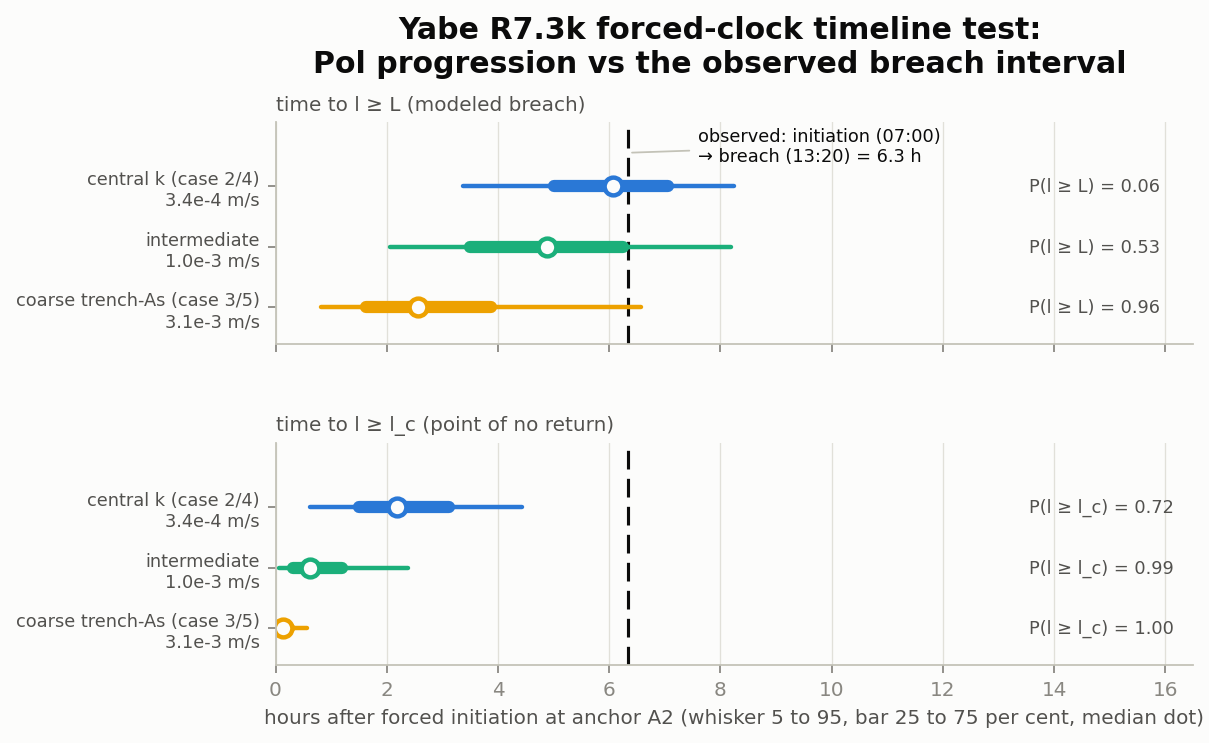
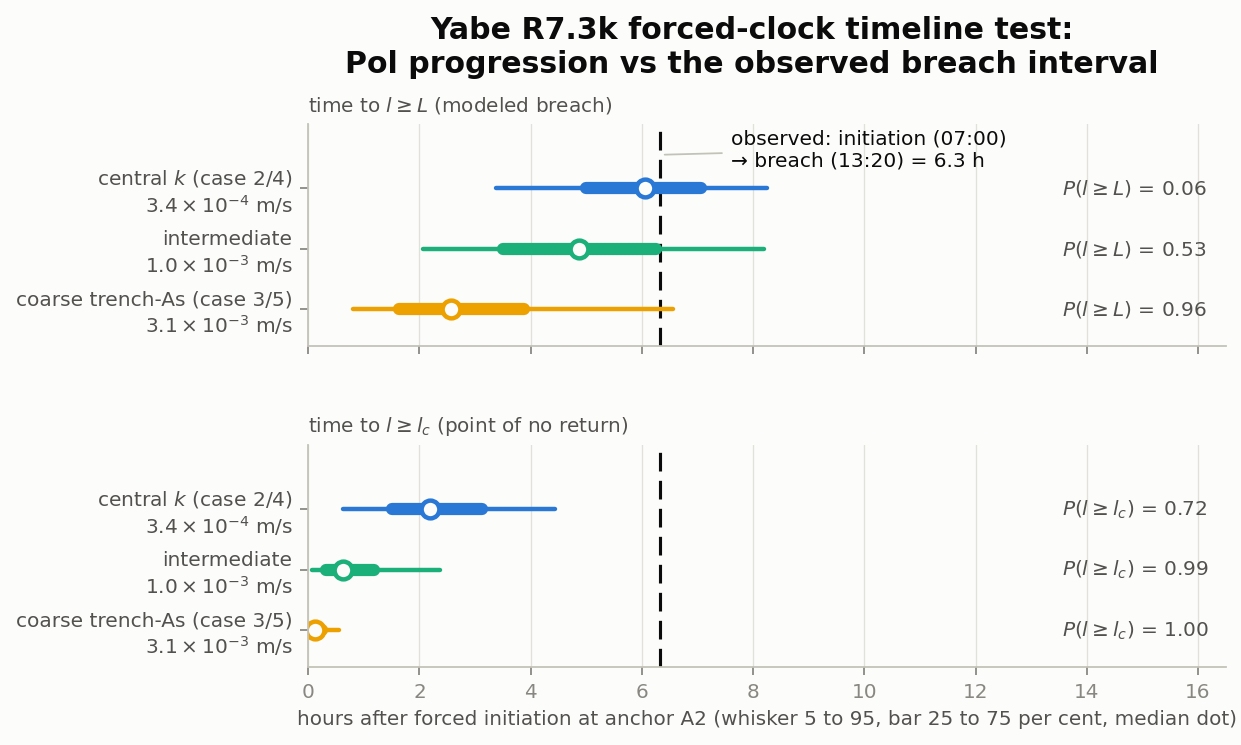
Put the printed floor within reach of every figure that can hold it
Ten of the twelve reviewed figures now print their smallest text at or
above seven points on the page. The move that did it at the foreshore
figure is the one worth keeping: its eight-entry key was four assumed
retreat rates by two loading cases, set so small it printed at 3.1
points, the smallest text in the report. The caption already listed the
rates, so the key moved there in full and the legend went. That freed
the panel, and with it freed every remaining size could rise to the
floor without the collisions a straight enlargement had shown. The
drawing is untouched; only the key left it. Text that has to be small to
fit inside a figure is usually text a caption can hold at caption size.

Two collisions surfaced once that type was at the floor and both are
fixed: two section names that sit close in both axes and ran together,
and the retreat-rate bracket label, which moved to the foot of its band.
Three further figures reached the floor by raising one number each, the
size of their in-plot annotations, which moves no position, limit, label
or colour and so leaves a restored drawing restored.

Three defects the reversions had reinstated are repaired. The timestep
figure was naming one datum two ways, m MSL in one panel title and
m T.P. in another. The Yabe timeline had come back with e-notation for
its conductivities and an underscored critical length, and the Gounokawa
onset figure with dH for a head difference; all three now read as the
[…]

diff --git a/scripts/foreshore_exhaustion_study.py b/scripts/foreshore_exhaustion_study.py
@@ -398,7 +398,22 @@ def _make_figure(records: list[dict[str, Any]], out_path: Path) -> None:
     import _figstyle as fs
     import matplotlib.pyplot as plt
 
-    fig, (ax_a, ax_b) = plt.subplots(1, 2, figsize=(11.5, 4.28))
+    # Every size here is authored so that it prints at or above the 7 pt floor.
+    # The figure is 11.5 in wide and placed at 0.85 of the text block, so it is
+    # reduced by about 0.50 on the page and the floor is 14.3 authored points.
+    # The canvas is taller than it was to give that larger type its room; height
+    # does not enter the reduction, only width does.
+    plt.rcParams.update(
+        {
+            "font.size": 14.3,
+            "axes.titlesize": 14.3,
+            "axes.labelsize": 14.3,
+            "legend.fontsize": 14.3,
+            "xtick.labelsize": 14.3,
+            "ytick.labelsize": 14.3,
+        }
+    )
+    fig, (ax_a, ax_b) = plt.subplots(1, 2, figsize=(11.5, 6.6))
 
     widths = np.asarray([r["foreshore_width_m"] for r in records], dtype=float)
     order = np.argsort(widths)
@@ -425,10 +440,6 @@ def _make_figure(records: list[dict[str, Any]], out_path: Path) -> None:
                 color=color,
                 markersize=5,
                 linewidth=1.2,
-                label=(
-                    f"{RATE_DISPLAY_NAMES.get(name, name)} ({rate:g} m/h), "
-                    f"{CASE_DISPLAY_NAMES[case]}"
-                ),
             )
     # Eight series cross this panel, so every piece of text in it sits on a
     # plate: the exhaustion line and the section names were being ruled
@@ -442,11 +453,15 @@ def _make_figure(records: list[dict[str, Any]], out_path: Path) -> None:
         color="crimson",
         va="bottom",
         ha="right",
-        fontsize=8,
+        fontsize=14.3,
         transform=ax_a.get_yaxis_transform(),
         bbox=plate,
         zorder=6,
     )
+    # KP 57.4 and KP 58.8 are close in bed width and closer still in exposure
+    # ratio, so a single common offset ran the two names together. Each is
+    # placed on its own side of its point instead.
+    label_offsets = {"KP57.4": (2, 9), "KP58.8": (2, -16)}
     for record in records:
         ratio = record["event_2016"]["thresholds"]["z_mob"]["rates"]["central"][
             "exposure_ratio"
@@ -455,8 +470,8 @@ def _make_figure(records: list[dict[str, Any]], out_path: Path) -> None:
             record["section"],
             (record["foreshore_width_m"], ratio),
             textcoords="offset points",
-            xytext=(4, 5),
-            fontsize=8,
+            xytext=label_offsets.get(record["section"], (4, 5)),
+            fontsize=14.3,
             bbox=plate,
             zorder=6,
         )
@@ -475,7 +490,10 @@ def _make_figure(records: list[dict[str, Any]], out_path: Path) -> None:
     ax_a.set_ylabel(r"exposure ratio  $v_\mathrm{lat}\,T_\mathrm{mob} / B_f$  [-]")
     ax_a.set_title("(a) Exposure ratio across the retreat-rate bracket")
     ax_a.grid(alpha=0.3, which="both")
-    ax_a.legend(fontsize=6.2, ncol=2, loc="lower left")
+    # The eight-entry key that used to sit here printed at 3.1 pt, the smallest
+    # text in the thesis. It was four assumed rates by two loading cases, and
+    # the caption already named the rates; it now carries the whole key, which
+    # is where a reader can actually read it. Nothing else in the panel moved.
 
     for record in records:
         levels = record["conditioning_grid"]["levels"]
@@ -511,9 +529,9 @@ def _make_figure(records: list[dict[str, Any]], out_path: Path) -> None:
     # request was never withdrawn, so it survives the restore.
     ax_b.text(
         0.98,
-        3.0 * (lo * hi) ** 0.5,
+        lo * 1.35,
         "assumed retreat-rate bracket",
-        fontsize=8,
+        fontsize=14.3,
         color="0.25",
         va="center",
         ha="right",
@@ -525,7 +543,9 @@ def _make_figure(records: list[dict[str, Any]], out_path: Path) -> None:
     ax_b.set_ylabel(r"critical retreat rate  $v^{*} = B_f / T_\mathrm{mob}$  [m/h]")
     ax_b.set_title("(b) Rate needed to exhaust the bed ($\\star$ = 2016 event)")
     ax_b.grid(alpha=0.3, which="both")
-    ax_b.legend(fontsize=7.5, loc="upper right")
+    # Four short entries, one per surveyed section: this key stays in the
+    # panel, at the same printed size as everything else.
+    ax_b.legend(loc="upper right")
 
     # This used to be a figure-level text rather than a suptitle, because
     # ``tight_layout`` reserves a band for a suptitle several times the

diff --git a/scripts/phase3_figures.py b/scripts/phase3_figures.py
@@ -671,7 +671,14 @@ def fig_event_validation(df: pd.DataFrame, val: dict) -> None:
     base = _primary(df)
     scale = _scale("event")
     fig, ax = plt.subplots(figsize=(WIDTH_IN["event"], 6.2))
-    markers = {"historical": "o", "+4K": "s"}
+    # Shape carries the mechanism as a family and the scenario as the member
+    # within it, so the mechanism survives greyscale: overflow is round then
+    # square, fluvial scour triangular then diamond. Fill still carries
+    # whether ten or more events engaged the mechanism.
+    markers = {
+        "overflow": {"historical": "o", "+4K": "s"},
+        "fluvial_scour": {"historical": "^", "+4K": "D"},
+    }
     floor_count = 0
     for key, node in val["nodes"].items():
         river, kp_s = key.split("_KP")
@@ -702,7 +709,7 @@ def fig_event_validation(df: pd.DataFrame, val: dict) -> None:
                 ax.plot(
                     max(event_v, FLOOR),
                     max(curve_v, FLOOR),
-                    markers[scen],
+                    markers[mech][scen],
                     color=MECH_COLORS[mech],
                     mfc=MECH_COLORS[mech] if engaged >= 10 else SURFACE,
                     ms=7,
@@ -733,35 +740,31 @@ def fig_event_validation(df: pd.DataFrame, val: dict) -> None:
             ha="left",
             va="bottom",
         )
-    handles = (
-        [
-            plt.Line2D(
-                [],
-                [],
-                marker="o",
-                ls="none",
-                color=MECH_COLORS[m],
-                label=MECH_LABELS[m],
-            )
-            for m in ("overflow", "fluvial_scour")
-        ]
-        + [
-            plt.Line2D([], [], marker=mk, ls="none", color=INK_2, label=SCEN_LABELS[sc])
-            for sc, mk in markers.items()
-        ]
-        + [
-            plt.Line2D(
-                [],
-                [],
-                marker="o",
-                ls="none",
-                mfc=SURFACE,
-                mec=INK_2,
-                color=INK_2,
-                label="fewer than ten engaged events",
-            )
-        ]
-    )
+    # The four combinations are named directly rather than split into two
+    # separate keys, so nothing has to be inferred by crossing them.
+    handles = [
+        plt.Line2D(
+            [],
+            [],
+            marker=markers[m][sc],
+            ls="none",
+            color=MECH_COLORS[m],
+            label=f"{MECH_LABELS[m]}, {SCEN_LABELS[sc]}",
+        )
+        for m in ("overflow", "fluvial_scour")
+        for sc in ("historical", "+4K")
+    ] + [
+        plt.Line2D(
+            [],
+            [],
+            marker="o",
+            ls="none",
+            mfc=SURFACE,
+            mec=INK_2,
+            color=INK_2,
+            label="open mark: fewer than ten engaged events",
+        )
+    ]
     fs.legend_below(fig, handles, [h.get_label() for h in handles], scale=scale, ncol=3)
     fs.title(
         fig,

diff --git a/scripts/plot_validation_yabe.py b/scripts/plot_validation_yabe.py
@@ -54,10 +54,13 @@ plt.rcParams.update(
     }
 )
 
+# The wording is the author's restored wording. Only the notation is set:
+# the report writes a conductivity as a power of ten and a symbol as maths,
+# and "3.4e-4" is neither.
 K_LABEL = {
-    3.4e-4: "central k (case 2/4)\n3.4e-4 m/s",
-    1.0e-3: "intermediate\n1.0e-3 m/s",
-    3.1e-3: "coarse trench-As (case 3/5)\n3.1e-3 m/s",
+    3.4e-4: "central $k$ (case 2/4)\n" r"$3.4\times10^{-4}$ m/s",
+    1.0e-3: "intermediate\n" r"$1.0\times10^{-3}$ m/s",
+    3.1e-3: "coarse trench-As (case 3/5)\n" r"$3.1\times10^{-3}$ m/s",
 }
 K_COLOR = {3.4e-4: BLUE, 1.0e-3: AQUA, 3.1e-3: YELLOW}
 
@@ -78,9 +81,11 @@ def fig_timeline(results: dict) -> None:
     # whole simulated window, which is not the probability of reaching it
     # inside the observed interval; the label names the endpoint so the two
     # cannot be read for each other.
+    # Same words as the restored version; the symbols are set as maths, so
+    # the critical length no longer prints as an underscored name.
     panels = [
-        ("full", "time to l ≥ L (modeled breach)", "P(l ≥ L)"),
-        ("lc", "time to l ≥ l_c (point of no return)", "P(l ≥ l_c)"),
+        ("full", r"time to $l \geq L$ (modeled breach)", r"$P(l \geq L)$"),
+        ("lc", r"time to $l \geq l_c$ (point of no return)", r"$P(l \geq l_c)$"),
     ]
     ks = [3.4e-4, 1.0e-3, 3.1e-3]
     for ax, (lab, title, reach_label) in zip(axes, panels):
@@ -101,11 +106,13 @@ def fig_timeline(results: dict) -> None:
                 y,
                 f"{reach_label} = {p:.2f}",
                 color=INK2,
-                fontsize=8,
+                fontsize=9.05,
                 va="center",
             )
         ax.set_yticks(range(len(ks)))
-        ax.set_yticklabels([K_LABEL[k] for k in reversed(ks)], fontsize=8, color=INK2)
+        ax.set_yticklabels(
+            [K_LABEL[k] for k in reversed(ks)], fontsize=9.05, color=INK2
+        )
         # A clear strip above the top row for the observed-interval callout,
         # which used to be drawn outside the frame, over the panel title.
         ax.set_ylim(-0.6, len(ks) + 0.05)
@@ -118,7 +125,7 @@ def fig_timeline(results: dict) -> None:
         xytext=(7.6, 2.98),
         va="top",
         color=INK,
-        fontsize=8,
+        fontsize=9.05,
         arrowprops={"arrowstyle": "-", "color": BASELINE, "lw": 0.8},
     )
     axes[1].set_xlabel(

diff --git a/scripts/plot_validation_shikaga.py b/scripts/plot_validation_shikaga.py
@@ -86,9 +86,9 @@ def main() -> None:
                 lo, y, "o", ms=9, mfc=SURFACE if open_marker else BLUE, mec=BLUE, mew=2
             )
             txt = f"{lo:.2f}" + ("  (datum uncertain)" if open_marker else "")
-        ax.text(hi + 0.09, y, txt, color=INK2, fontsize=8, va="center")
+        ax.text(hi + 0.09, y, txt, color=INK2, fontsize=9.1, va="center")
     ax.set_yticks(range(len(rows)))
-    ax.set_yticklabels([r[0] for r in reversed(rows)], fontsize=8, color=INK2)
+    ax.set_yticklabels([r[0] for r in reversed(rows)], fontsize=9.1, color=INK2)
     ax.set_ylim(-0.6, len(rows) - 0.4)
     # The longest row label needs room inside the frame; at the old limit it
     # ran into the figure margin and finished flush with the canvas edge.

diff --git a/scripts/plot_validation_gounokawa.py b/scripts/plot_validation_gounokawa.py
@@ -226,12 +226,14 @@ def fig_onset_intervals(results: dict) -> None:
         va="center",
         arrowprops={"arrowstyle": "->", "color": MUTED, "lw": 1.0},
         color=MUTED,
-        fontsize=8,
+        fontsize=8.1,
         zorder=6,
     )
     # One line ran off the canvas and lost its closing bracket.
+    # The report writes the head difference as a symbol, not as the letters
+    # dH. Wording and layout are the restored ones.
     axes[1].set_xlabel(
-        "predicted onset head over hinterland ground, dH [m]\n"
+        r"predicted onset head over hinterland ground, $\Delta h$ [m]" + "\n"
         "(5 to 95 per cent whisker, 25 to 75 per cent bar, median dot)"
     )
     axes[1].set_xlim(0, 24)

diff --git a/scripts/timestep_convergence_stress.py b/scripts/timestep_convergence_stress.py
@@ -812,7 +812,10 @@ def make_figure(
     ax_b.set_xlabel("time [h]")
     ax_b.set_ylabel(r"pipe length $l(t)$ [m]")
     ax_b.set_title(
-        f"(b) Worst-case trajectories at h = {traj['showcase_level_m_msl']:g} m MSL"
+        # The datum is written m T.P. throughout the report, including in its
+        # figures. Panel (c) already did; this panel named the same quantity
+        # m MSL, so one figure carried two labels for one datum.
+        f"(b) Worst-case trajectories at h = {traj['showcase_level_m_msl']:g} m T.P."
         f" ({_section_label(primary_id)})",
         loc="left",
         fontsize=10,

diff --git a/docs/project_log.md b/docs/project_log.md
@@ -289,3 +289,52 @@ mechanics are in `docs/conventions.md`.
   The three round-1 repairs and the three round-2 source corrections were
   re-checked at every site, not only in the caption. One line-ending-only diff
   was restored rather than committed, and one review artifact was left untracked.
+
+  **Second pass, 2026-09-11, on the author's instruction to close every open
+  point.** The floor is now met at ten of the twelve reviewed figures, and the
+  two that are not are decided rather than outstanding. **The move that closed
+  8.1 generalises and is the finding to keep:** its panel-A key was four assumed
+  rates by two loading cases set at 6.2 authored points, printing at 3.1, the
+  smallest text in the report; the caption already listed the rates, so the key
+  moved there in full and the legend went. That freed the panel, and with it
+  freed every remaining size rose to the floor without the collisions the
+  floor-lifted variant had shown, taking the figure from 3.1 pt to 7.0 with the
+  drawing itself untouched. **Text that has to be small to fit inside a figure is
+  usually text a caption can hold at caption size**, which is the same lesson the
+  tight-bounding-box measurement taught from the other direction. Two collisions
+  surfaced once the type was at the floor and both were fixed: two section names
+  that ran together, and the bracket label, which moved to the foot of its band.
+
+  Three further figures reached the floor by raising a single number, the size of
+  their in-plot annotations (5.2, 5.3, G.2). That moves no position, limit, label
+  or colour, so a restored drawing stays restored. **5.1 stays at 4.9 pt by the
+  author's own instruction**, with the floor-lifted build kept as the evidence for
+  why; the route to the floor there is the 8.1 move, its panel titles stating run
+  conditions the caption now carries verbatim, but it means editing subfigure
+  titles, which was ruled out. **2.2 stays at 5.0 pt after the 7 pt version was
+  built and rejected on inspection**, four separate collisions in a dense typeset
+  drawing; that one is a re-layout, not a size change.
+
+  **Three defects the restores had reinstated are repaired.** 5.1 was naming one
+  datum two ways, ``m MSL`` in one panel title and ``m T.P.`` in another, which an
+  earlier campaign had unified and round 2 had hidden by deleting the string
+  rather than fixing it. 5.3 had come back with ``3.4e-4`` for its conductivities
+  and an underscored ``l_c``, and G.2 with ``dH`` for a head difference; all three
+  are now set as the report writes them, with the author's wording untouched.
+  The Chapter 5 caption lost the sentence its restored title duplicates and had
+  its panel letters brought into line with the figure's own.
+
+  **H.9 gained the second channel it could not carry.** Both of its mark channels
+  were already spoken for, shape carrying the climate scenario and fill carrying
+  whether ten or more events engaged the mechanism, so the mechanism took a shape
+  *family* instead of a single shape: overflow round then square, fluvial scour
+  triangular then diamond. Both earlier readings survive unchanged and the legend
+  is one entry shorter, naming the four combinations directly instead of leaving
+  two keys to be crossed.
+
+  **The save-survival mechanism is now verified in a real browser, not argued.**
+  The previous pass could only check it at markup level. A headless browser now
+  loads the page, types into two note boxes through the page's own input handler,
+  rules on two entries and serialises its own DOM, which is the tree a save
+  writes: both notes come back inside their textareas, both rulings come back on
+  their data attributes, and the ten unruled entries stay empty.

diff --git a/docs/conventions.md b/docs/conventions.md
@@ -352,6 +352,33 @@ body type from 8.2 to 7.0 pt, G.2 from 7.6 to 6.6 pt, and 5.2 from 6.7 to 5.4 pt
 itself.** Three titles are therefore set on two lines, two of them (5.2, G.1) at
 no request, and each figure now prints at or above the size it had before.
 
+**The floor was then closed, on the author's instruction, at every figure where
+it could be (2026-09-11).** Ten of the twelve reviewed figures now print their
+smallest text at or above 7 pt. The move that did it at 8.1 is the one worth
+keeping: its eight-entry key was four assumed rates by two loading cases, the
+caption already listed the rates, so **the key moved into the caption in full and
+the legend went**, which freed the panel and let every remaining size rise. 8.1
+went from 3.1 pt, the smallest text in the report, to 7.0. Three more figures
+(5.2, 5.3, G.2) reached the floor by raising one number each, the size of their
+in-plot annotations, which moves no position, limit, label or colour and so
+leaves a restored drawing restored.
+
+**Two remain below the floor and both are decided rather than outstanding.**
+5.1 prints at 4.9 pt because the author asked for that composition and the
+floor-lifted build of it collides; the route to the floor there is the 8.1 move,
+its panel titles stating run conditions the caption now carries verbatim, but it
+means editing subfigure titles, which the author ruled out. 2.2 prints at 5.0 pt,
+which is LaTeX's own ``\tiny`` at a 10 pt base rather than a reduction artefact:
+the 7 pt version was built and read, and the drawing does not survive it (the
+panel (a) axis title runs into its tick labels, the two pipe-dimension labels
+merge, the high-water-bed label is struck through by the piezometric line and the
+embankment, and the low-water-channel box lands on the channel). Reverted.
+
+**A caption may carry a figure's key, and it is often the better place.** Both
+this and the earlier tight-bounding-box finding say the same thing: text that
+must be small to fit inside a figure is usually text the caption can hold at
+caption size, where it is read once rather than squinted at.
+
 Standing exceptions: 6.5 keeps its small upper-left legend, 6.12 uses separate
 legends beneath its two panels, 5.7 retains its compact printed-point table with
 a 7 pt floor, and H.3/H.4 keep the shared legend below because their top-right
